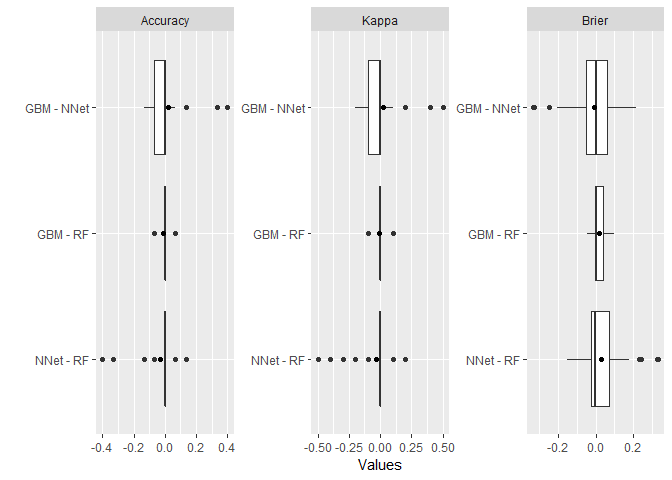
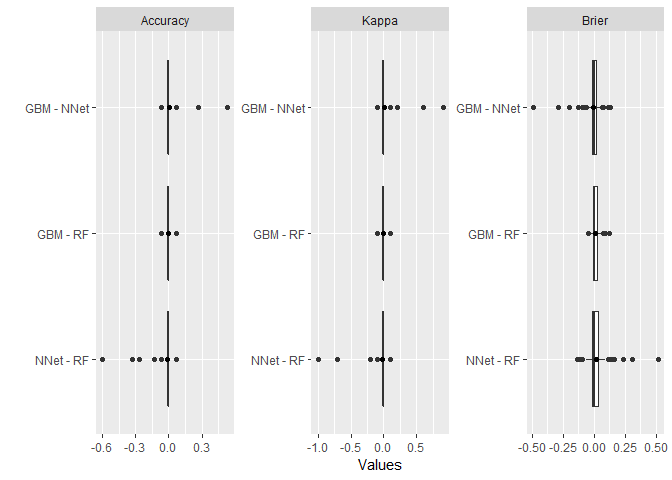
Change MLModelTune slot resamples to performance

diff --git a/README.md b/README.md
@@ -1811,11 +1811,11 @@ plot(gbmtune, type = "line")
 ## Fit the selected model
 gbmtunefit <- fit(fo, data = iris, model = gbmtune)
 varimp(gbmtunefit)
-#>                 Overall
-#> Petal.Length 100.000000
-#> Petal.Width   19.311911
-#> Sepal.Width    2.500572
-#> Sepal.Length   0.000000
+#>                Overall
+#> Petal.Length 100.00000
+#> Petal.Width   28.00921
+#> Sepal.Width    2.30804
+#> Sepal.Length   0.00000
 ```
 
 ### Model Comparisons
@@ -1833,23 +1833,23 @@ summary(res)
 #> , , Accuracy
 #> 
 #>           Mean    Median         SD Min Max NA
-#> GBM  0.9440000 0.9333333 0.05447752 0.8   1  0
-#> NNet 0.9373333 0.9666667 0.08771217 0.6   1  0
-#> RF   0.9520000 0.9333333 0.05720631 0.8   1  0
+#> GBM  0.9466667 0.9333333 0.05387480 0.8   1  0
+#> NNet 0.9373333 1.0000000 0.11773370 0.4   1  0
+#> RF   0.9560000 0.9666667 0.05321415 0.8   1  0
 #> 
 #> , , Kappa
 #> 
-#>       Mean Median         SD Min Max NA
-#> GBM  0.916   0.90 0.08171628 0.7   1  0
-#> NNet 0.892   0.95 0.15758380 0.4   1  0
-#> RF   0.928   0.90 0.08580947 0.7   1  0
+#>       Mean Median         SD  Min Max NA
+#> GBM  0.920   0.90 0.08081220  0.7   1  0
+#> NNet 0.902   1.00 0.21236280 -0.3   1  0
+#> RF   0.934   0.95 0.07982123  0.7   1  0
 #> 
 #> , , Brier
 #> 
-#>            Mean     Median         SD          Min       Max NA
-#> GBM  0.08739305 0.06993792 0.08997327 5.611940e-05 0.3655810  0
-#> NNet 0.09728523 0.06078362 0.11257530 5.069556e-26 0.3333334  0
-#> RF   0.07043733 0.04421333 0.07650326 5.333333e-05 0.3091200  0
+#>            Mean      Median         SD          Min       Max NA
+#> GBM  0.08282749 0.063761882 0.08832055 2.740079e-05 0.3850368  0
+#> NNet 0.09151662 0.005049339 0.13523087 1.367731e-51 0.6666668  0
+#> RF   0.06990080 0.048453333 0.07184654 1.600000e-04 0.3176000  0
 
 plot(res)
 ```
@@ -1862,24 +1862,24 @@ perfdiff <- diff(res)
 summary(perfdiff)
 #> , , Accuracy
 #> 
-#>                    Mean Median         SD         Min        Max NA
-#> GBM - NNet  0.022666667      0 0.12749817 -0.13333333 0.40000000  0
-#> GBM - RF   -0.009333333      0 0.03301893 -0.06666667 0.06666667  0
-#> NNet - RF  -0.032000000      0 0.11913521 -0.40000000 0.13333333  0
+#>              Mean Median         SD         Min        Max NA
+#> GBM - NNet  0.008      0 0.09955912 -0.06666667 0.53333333  0
+#> GBM - RF   -0.008      0 0.03198639 -0.06666667 0.06666667  0
+#> NNet - RF  -0.016      0 0.11070584 -0.60000000 0.06666667  0
 #> 
 #> , , Kappa
 #> 
 #>              Mean Median         SD  Min Max NA
-#> GBM - NNet  0.022      0 0.15816550 -0.2 0.5  0
+#> GBM - NNet  0.014      0 0.16538144 -0.1 0.9  0
 #> GBM - RF   -0.012      0 0.04797959 -0.1 0.1  0
-#> NNet - RF  -0.034      0 0.14653829 -0.5 0.2  0
+#> NNet - RF  -0.026      0 0.18273433 -1.0 0.1  0
 #> 
 #> , , Brier
 #> 
-#>                    Mean        Median         SD         Min        Max NA
-#> GBM - NNet -0.009892183  0.0014628834 0.12230934 -0.33301668 0.21469886  0
-#> GBM - RF    0.016955715  0.0009175387 0.02937316 -0.04403306 0.09662101  0
-#> NNet - RF   0.026847898 -0.0037110334 0.11589380 -0.15451161 0.33221333  0
+#>                    Mean        Median        SD         Min       Max NA
+#> GBM - NNet -0.008689127  0.0007342389 0.1032869 -0.49047781 0.1318379  0
+#> GBM - RF    0.012926694  0.0037022372 0.0339893 -0.04799376 0.1196612  0
+#> NNet - RF   0.021615821 -0.0011220887 0.1108912 -0.13237306 0.5181868  0
 
 t.test(perfdiff)
 #> An object of class "HTestPerformanceDiff"
@@ -1890,24 +1890,24 @@ t.test(perfdiff)
 #> 
 #> , , Accuracy
 #> 
-#>            GBM       NNet           RF
-#> GBM         NA 0.02266667 -0.009333333
-#> NNet 0.2146777         NA -0.032000000
-#> RF   0.1535959 0.15359593           NA
+#>            GBM      NNet     RF
+#> GBM         NA 0.0080000 -0.008
+#> NNet 0.6236368        NA -0.016
+#> RF   0.2495969 0.6236368     NA
 #> 
 #> , , Kappa
 #> 
 #>            GBM      NNet     RF
-#> GBM         NA 0.0220000 -0.012
-#> NNet 0.3301691        NA -0.034
-#> RF   0.2495969 0.2495969     NA
+#> GBM         NA 0.0140000 -0.012
+#> NNet 0.6386268        NA -0.026
+#> RF   0.2495969 0.6386268     NA
 #> 
 #> , , Brier
 #> 
-#>              GBM         NNet         RF
-#> GBM           NA -0.009892183 0.01695572
-#> NNet 0.570006478           NA 0.02684790
-#> RF   0.000493236  0.215623205         NA
+#>             GBM         NNet         RF
+#> GBM          NA -0.008689127 0.01292669
+#> NNet 0.55467315           NA 0.02161582
+#> RF   0.02928367  0.348712945         NA
 
 plot(perfdiff)
 ```
@@ -1920,18 +1920,18 @@ plot(perfdiff)
 ## Stacked regression
 stackedres <- resample(fo, data = iris, model = StackedModel(GBMModel, RandomForestModel, NNetModel))
 summary(stackedres)
-#>                Mean     Median         SD         Min       Max NA
-#> Accuracy 0.96000000 0.96666667 0.04661373 0.866666667 1.0000000  0
-#> Kappa    0.94000000 0.95000000 0.06992059 0.800000000 1.0000000  0
-#> Brier    0.06515169 0.06151907 0.06178104 0.005580933 0.1841152  0
+#>                Mean     Median         SD          Min       Max NA
+#> Accuracy 0.95333333 0.96666667 0.05488484 8.666667e-01 1.0000000  0
+#> Kappa    0.93000000 0.95000000 0.08232726 8.000000e-01 1.0000000  0
+#> Brier    0.07104383 0.04671106 0.07601605 4.280279e-05 0.1982373  0
 
 ## Super learner
 superres <- resample(fo, data = iris, model = SuperModel(GBMModel, RandomForestModel, NNetModel))
 summary(superres)
-#>                Mean    Median         SD          Min      Max NA
-#> Accuracy 0.94666667 0.9333333 0.04216370 0.8666666667 1.000000  0
-#> Kappa    0.92000000 0.9000000 0.06324555 0.8000000000 1.000000  0
-#> Brier    0.09841853 0.1106877 0.08111538 0.0000110332 0.259555  0
+#>                Mean    Median         SD          Min       Max NA
+#> Accuracy 0.95333333 0.9666667 0.06324555 8.000000e-01 1.0000000  0
+#> Kappa    0.93000000 0.9500000 0.09486833 7.000000e-01 1.0000000  0
+#> Brier    0.06817479 0.0322495 0.09179246 4.466662e-06 0.2782804  0
 ```
 
 ### Calibration Curves
@@ -1950,25 +1950,25 @@ plot(cal, se = TRUE)
 #> GBMModel :
 #>             Observed
 #> Predicted          setosa   versicolor    virginica
-#>   setosa     249.23098573   0.24569404   0.09285259
-#>   versicolor   0.75679330 230.60018692  25.22138229
-#>   virginica    0.01222097  19.15411904 224.68576512
+#>   setosa     249.24113696   0.25037765   0.09683350
+#>   versicolor   0.74235768 228.85744589  23.18256928
+#>   virginica    0.01650536  20.89217646 226.72059721
 
 summary(conf)
 #> GBMModel :
 #> Number of responses: 750
-#> Accuracy (SE): 0.9393559 (0.008715226)
+#> Accuracy (SE): 0.9397589 (0.008688084)
 #> Majority class: 0.3333333
-#> Kappa: 0.9090339
+#> Kappa: 0.9096384
 #> 
 #>                setosa versicolor virginica
 #> Observed    0.3333333  0.3333333 0.3333333
-#> Predicted   0.3327594  0.3421045 0.3251361
-#> Agreement   0.3323080  0.3074669 0.2995810
-#> Sensitivity 0.9969239  0.9224007 0.8987431
-#> Specificity 0.9993229  0.9480436 0.9616673
-#> PPV         0.9986435  0.8987515 0.9214018
-#> NPV         0.9984633  0.9606831 0.9499865
+#> Predicted   0.3327845  0.3370432 0.3301724
+#> Agreement   0.3323215  0.3051433 0.3022941
+#> Sensitivity 0.9969645  0.9154298 0.9068824
+#> Specificity 0.9993056  0.9521501 0.9581826
+#> PPV         0.9986089  0.9053537 0.9155646
+#> NPV         0.9984835  0.9574783 0.9536609
 ```
 
 ``` r
@@ -2026,14 +2026,14 @@ fit_rec <- fit(rec, model = GBMModel)
 varimp(fit_rec)
 #>        Overall
 #> PC1 100.000000
-#> PC3   5.734085
-#> PC2   1.780191
+#> PC3   4.946313
+#> PC2   1.089649
 #> PC4   0.000000
 
 res_rec <- resample(rec, model = GBMModel, control = CVControl)
 summary(res_rec)
-#>               Mean     Median         SD         Min       Max NA
-#> Accuracy 0.9400000 0.93333333 0.06629526 0.800000000 1.0000000  0
-#> Kappa    0.9100000 0.90000000 0.09944289 0.700000000 1.0000000  0
-#> Brier    0.0806202 0.05286238 0.08717373 0.001682667 0.2483078  0
+#>                Mean     Median         SD         Min       Max NA
+#> Accuracy 0.96000000 0.96666667 0.04661373 0.866666667 1.0000000  0
+#> Kappa    0.94000000 0.95000000 0.06992059 0.800000000 1.0000000  0
+#> Brier    0.06446083 0.04011043 0.05647578 0.003933401 0.1399515  0
 ```
